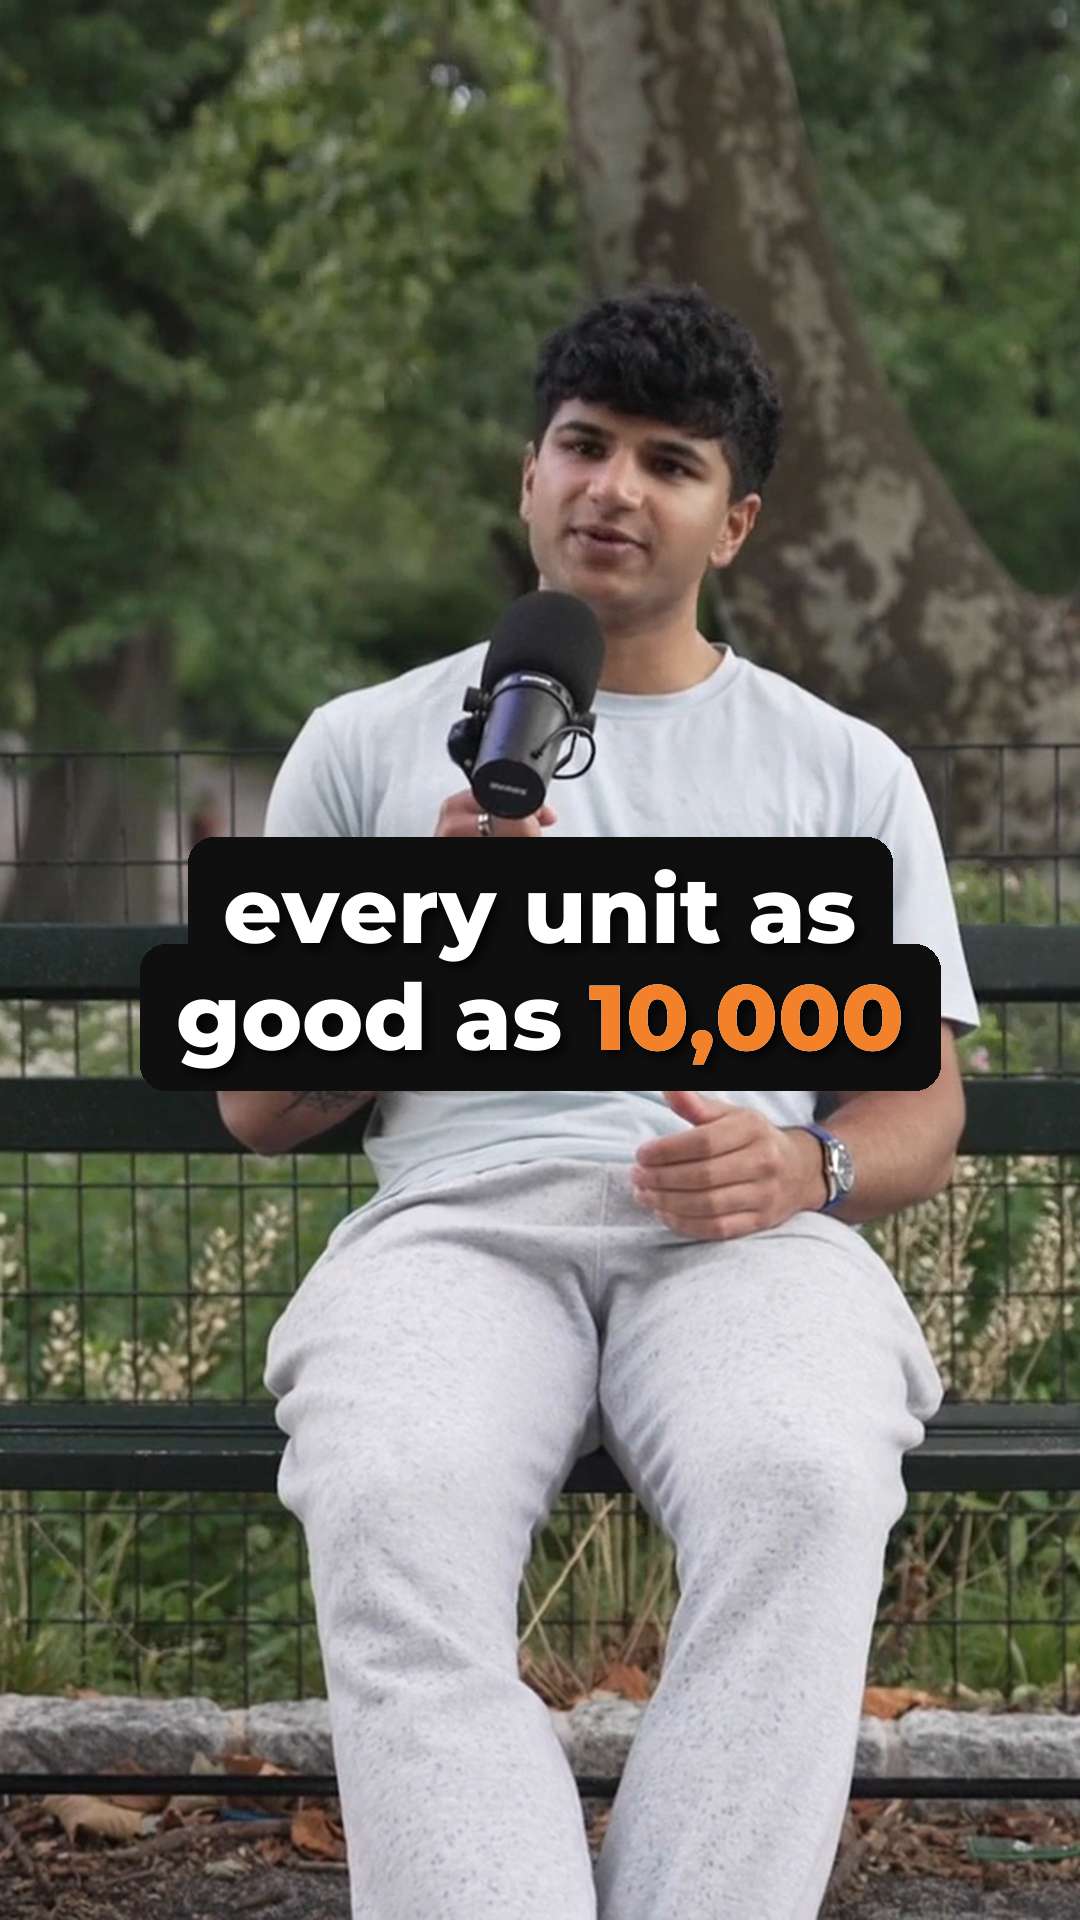
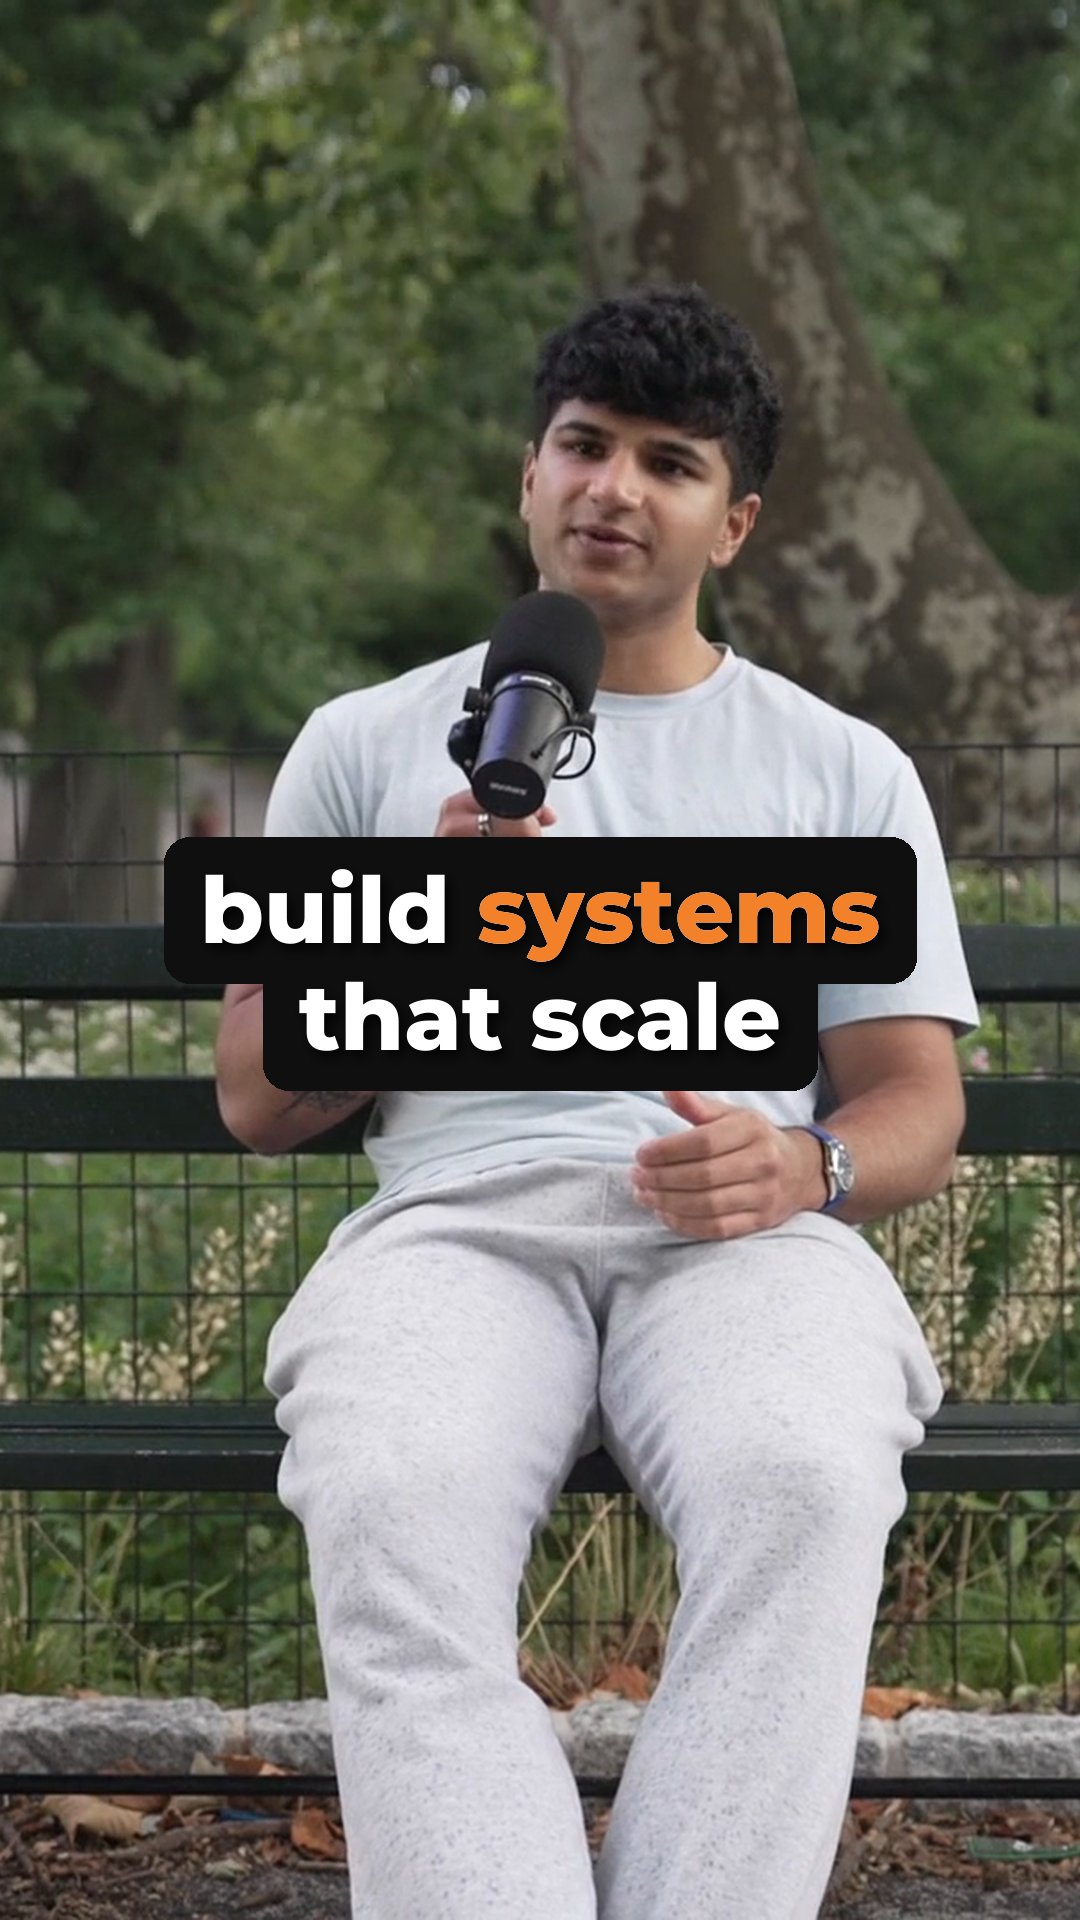
Batch 2: 16 hook-titled covers for delivered posts + v02 retitle + NYC cap

Changed region(s): [[0.1222, 0.4375, 0.8861, 0.5938]]

diff --git a/python-scripts/ig-grid-thumbs/render_thumb.py b/python-scripts/ig-grid-thumbs/render_thumb.py
@@ -51,7 +51,8 @@ LINE_SPACING = 1.16
 # words kept capitalized despite lowercase styling (brand: lowercase except I/names)
 NAMES = {"i", "sai", "sharran", "srivatsaa", "trendify", "ai", "ceo", "cmo", "roi"}
 CAP = {"i": "I", "sai": "Sai", "sharran": "Sharran", "srivatsaa": "Srivatsaa",
-       "trendify": "Trendify", "ai": "AI", "ceo": "CEO", "cmo": "CMO", "roi": "ROI"}
+       "trendify": "Trendify", "ai": "AI", "ceo": "CEO", "cmo": "CMO", "roi": "ROI",
+       "nyc": "NYC"}
 
 
 def load_font(size):

diff --git a/business/social-media/sai/ig-grid/2026-07-27-batch2/TITLE-VERIFICATION.md b/business/social-media/sai/ig-grid/2026-07-27-batch2/TITLE-VERIFICATION.md
@@ -1,0 +1,66 @@
+# Batch 2 Cover Titles — hook-style, transcript-verified — 2026-07-27
+
+Tile numbers = position on the grid counting from top-left (newest first),
+based on Gray's five screenshots. Views listed for reference.
+
+t08 (3,420 views) — $50k on gurus. these 3 were free
+Video: B4 V5 "3 entrepreneurs taught me more for free" — says "I've spent
+over $50,000 on courses and gurus. And these three entrepreneurs taught
+me more for free."
+Hook psychology: money contrast + who are the 3?
+
+t09 (2,725) — ranking the advice everyone gives you
+Video: B4 V6 tier list. Hook: which advice does he rank low?
+
+t10 (2,205) — what I ignore when hiring
+Video: B4 V3 hiring buckets. Hook: negative frame — what DOESN'T matter?
+
+t16 (2,978) — the only 2 pens worth buying
+Video: Penpalooza — "I've spent hundreds of dollars testing pens."
+Hook: specificity + only-2 exclusivity.
+
+t17 (2,867) — 3 purchases that changed my life
+Video: Productivity purchases. Hook: what are they?
+
+t24 (1,053) — turn creativity into a system
+Video: B2 V11 — verbatim "You win by turning your creativity into a system."
+
+t25 (1,291) — our onboarding was terrible. we fixed it
+Video: B2 V6 — verbatim "the onboarding call was terrible."
+Hook: confession + redemption arc.
+
+t27 (1,519) — we won a fortune 500 at 20 years old
+Video: B2 V8 — "land a Fortune 500 contract at the age of 20."
+Hook: age vs achievement gap.
+
+t29 (1,874) — lunch with an 800 person agency owner
+Video: B2 V9 Neil & Mike — "they run an agency that employs over 800 people."
+Hook: access + what did he learn?
+
+t30 (2,908) — rebuild your finances in 3 months
+Video: B2 V10 — "It took me three months to rebuild my company's finances."
+
+t32 (3,215) — the loudest street in NYC taught me this
+Video: b2 v4 fire sirens — "one of the loudest places in all of America."
+Hook: open loop on "this." Frame = the skyline window shot.
+
+t33 (1,094) — when to scale (I did it too early)
+Video: batch 1 vid 5 — "I made the mistake early on of scaling too early."
+Hook: admission of mistake.
+
+t41 (2,563) — why the universe rewards patience
+Video: Trust Nature — "the universe will reward you... stay patient."
+
+t44 (13.4K) — 23 years old. 97 employees
+Video: Founders Series 2 (Josh) — "he's 23 years old and runs a 97 person
+company." Hook: pure number gap.
+
+t46 (6,695) — my day as a 21 year old CEO
+Video: Schedule V6 — verbatim opening line.
+
+t52 (3,041) — how we keep 40 creators motivated
+Video: Company Culture — "one out of 40 creators will get a bonus."
+Hook: real number + how?
+
+NOTE — v02 in the first six was retitled per Gray: "build systems that scale"
+(export: 02-build-systems-that-scale.jpg).
